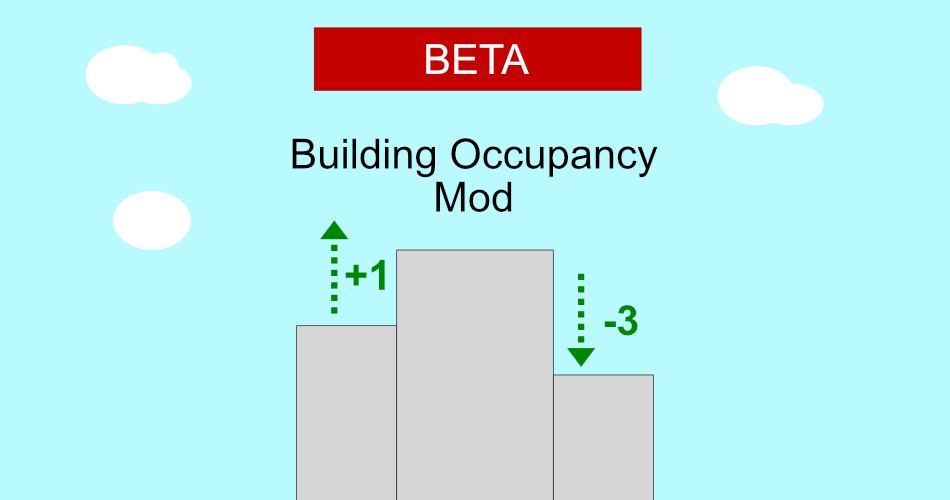
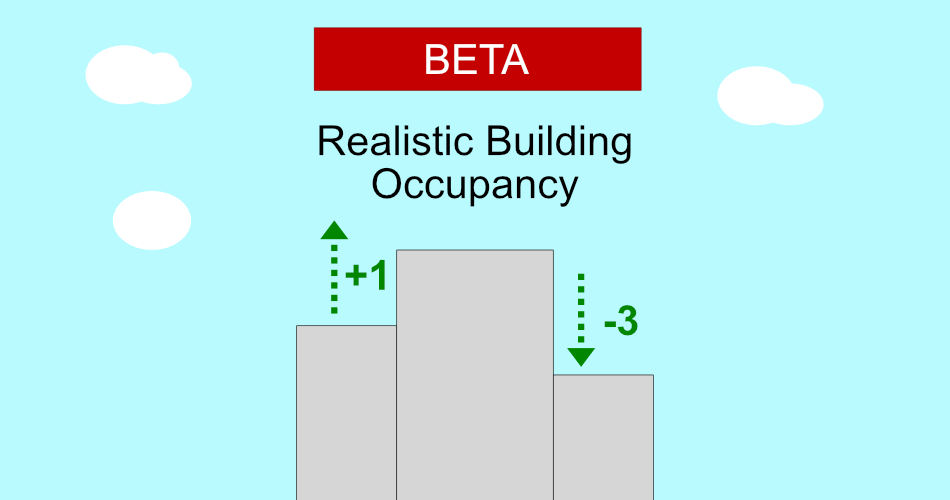
Update mod title to "Realistic Building Occupancy" for users

Changed region(s): [[0.3053, 0.24, 0.7021, 0.42]]

diff --git a/Setting.cs b/Setting.cs
@@ -146,7 +146,7 @@ namespace Trejak.BuildingOccupancyMod
         {
             return new Dictionary<string, string>
             {
-                { m_Setting.GetSettingsLocaleID(), "Building Occupancy" },
+                { m_Setting.GetSettingsLocaleID(), "Realistic Building Occupancy" },
                 { m_Setting.GetOptionTabLocaleID(Setting.kSection), "Main" },
 
                 { m_Setting.GetOptionGroupLocaleID(Setting.kDebugGroup), "Debug" },
